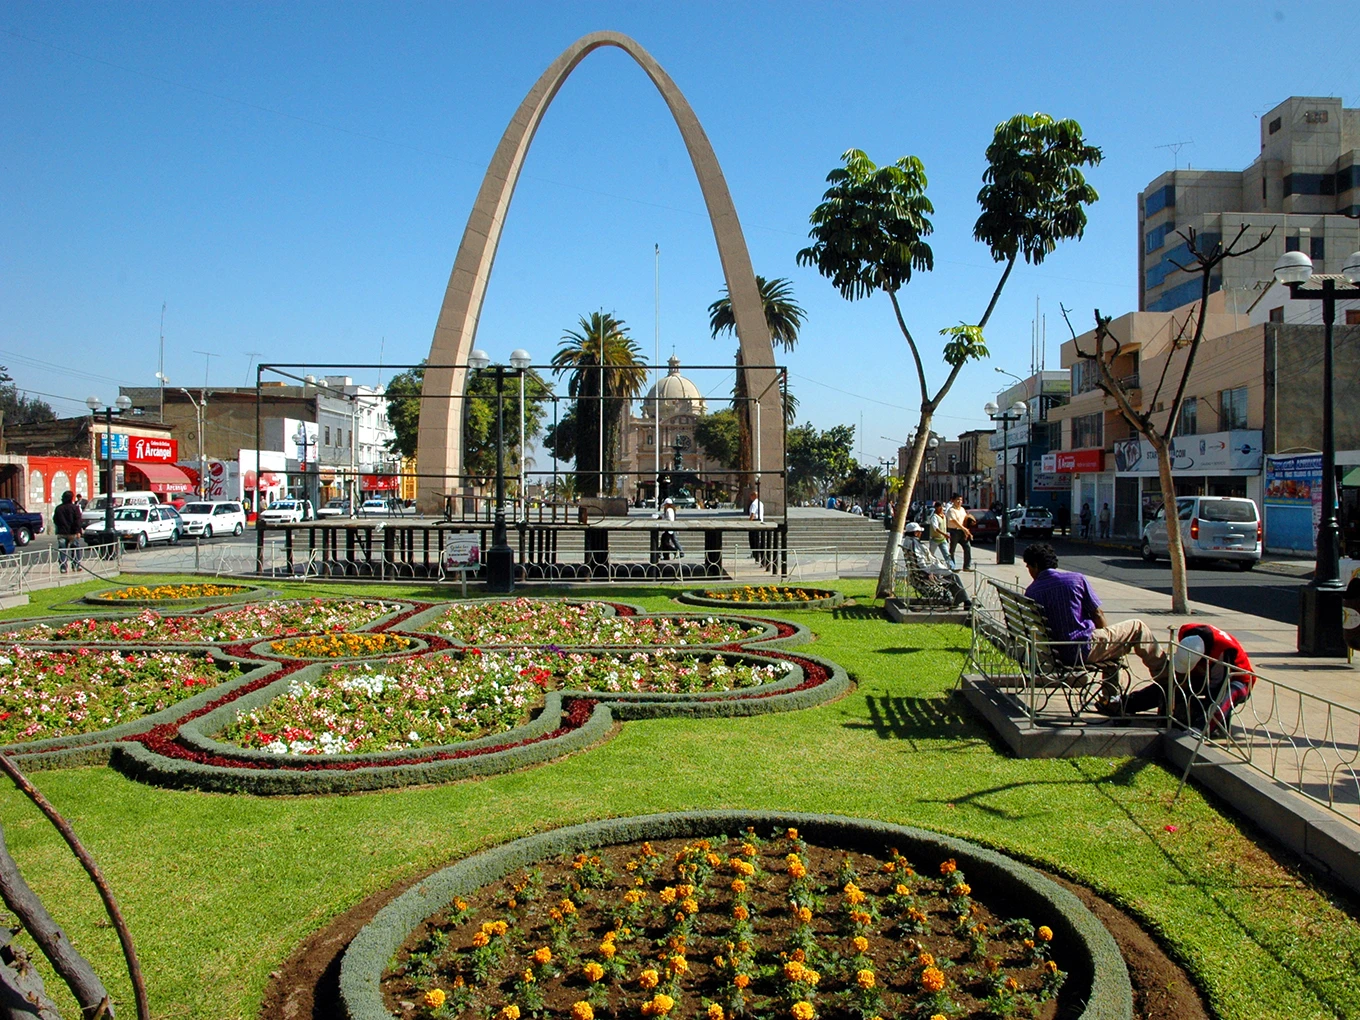
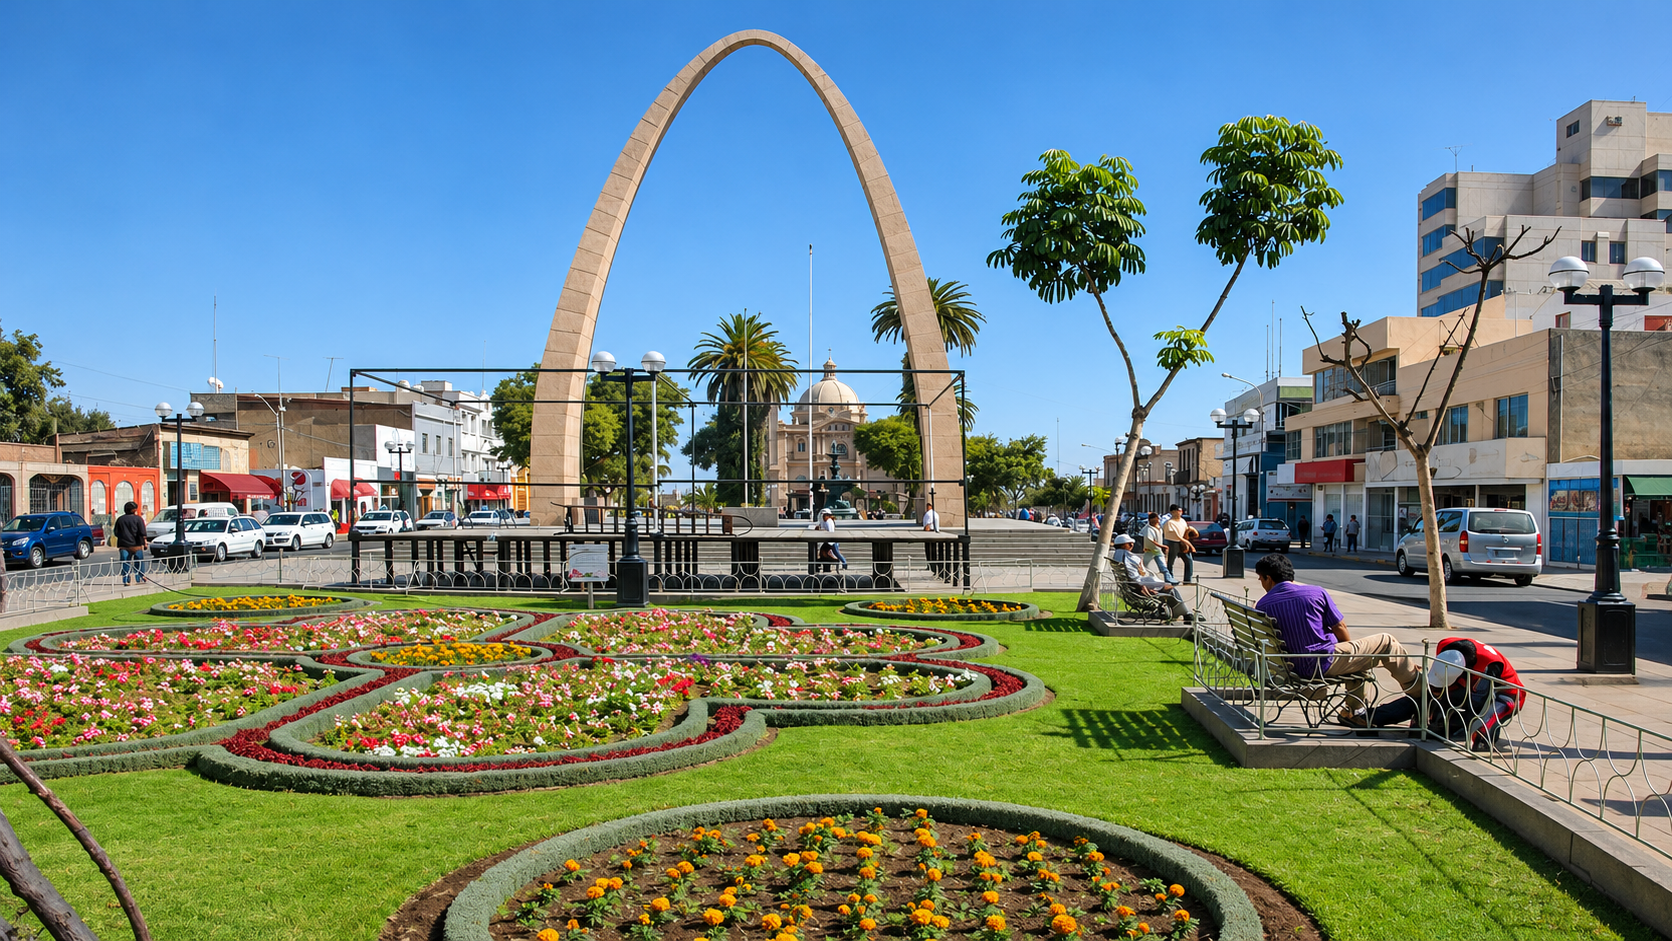
Mejorar fondo de Tacna con IA y reducir desenfoque

diff --git a/control/static/control/app.css b/control/static/control/app.css
@@ -526,7 +526,7 @@ dd {
 .pagina-login .estructura { min-height:calc(100dvh - 73px); }
 .login-distribucion { position:relative; isolation:isolate; display:grid; grid-template-columns:1fr 1fr; min-height:calc(100dvh - 73px); padding:3rem 2rem; overflow:hidden; }
 .login-paisaje { position:absolute; inset:0; z-index:-1; margin:0; overflow:hidden; background:#183c55; }
-.login-paisaje > img { width:100%; height:100%; object-fit:cover; object-position:center; filter:blur(1.5px); transform:scale(1.012); }
+.login-paisaje > img { width:100%; height:100%; object-fit:cover; object-position:center; filter:blur(.4px); transform:scale(1.012); }
 .login-paisaje::after { content:''; position:absolute; inset:0; background:rgba(15,38,57,.13); }
 .login-panel { grid-column:2; align-self:center; justify-self:center; width:min(100%,440px); padding:2.5rem; background:rgba(255,255,255,.97); border:1px solid #e1e8ef; border-radius:12px; box-shadow:0 12px 36px rgba(16,40,61,.13); }
 .login-contenido { width:100%; max-width:390px; }
@@ -542,3 +542,4 @@ dd {
   .login-panel { grid-column:1; padding:2rem 1.5rem; }
   .login-paisaje > img { object-position:45% center; }
 }
+
